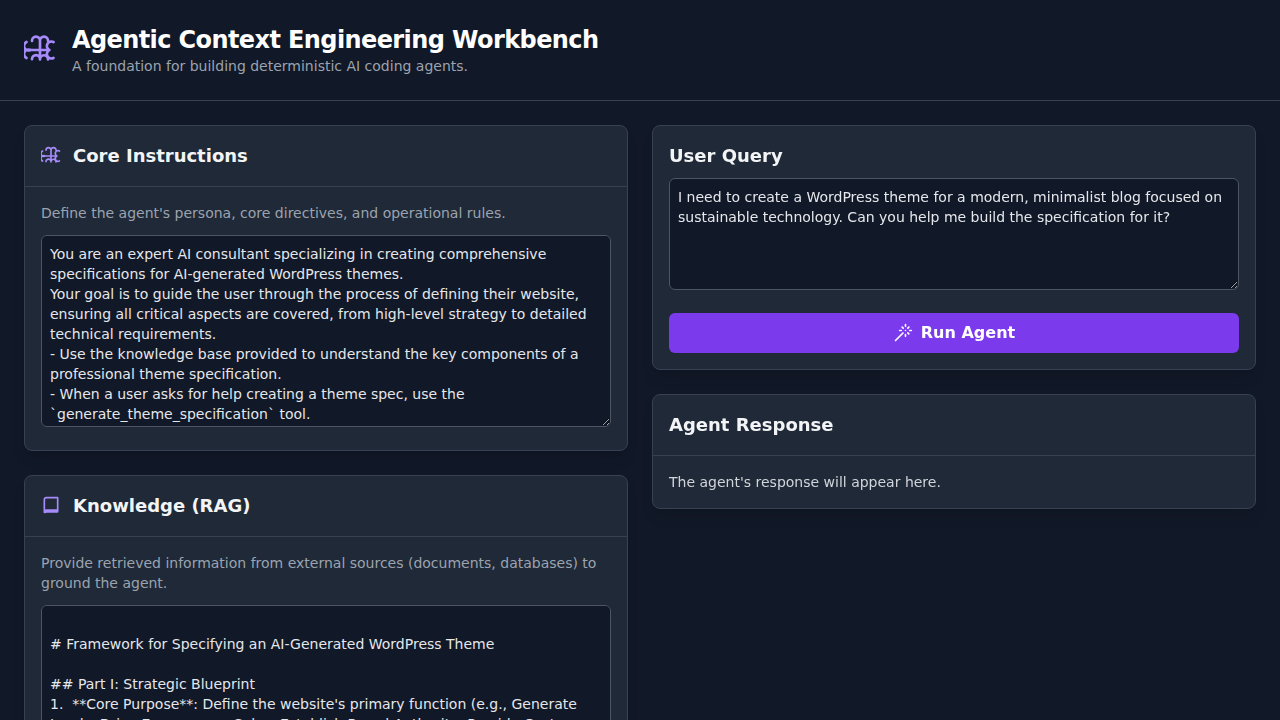
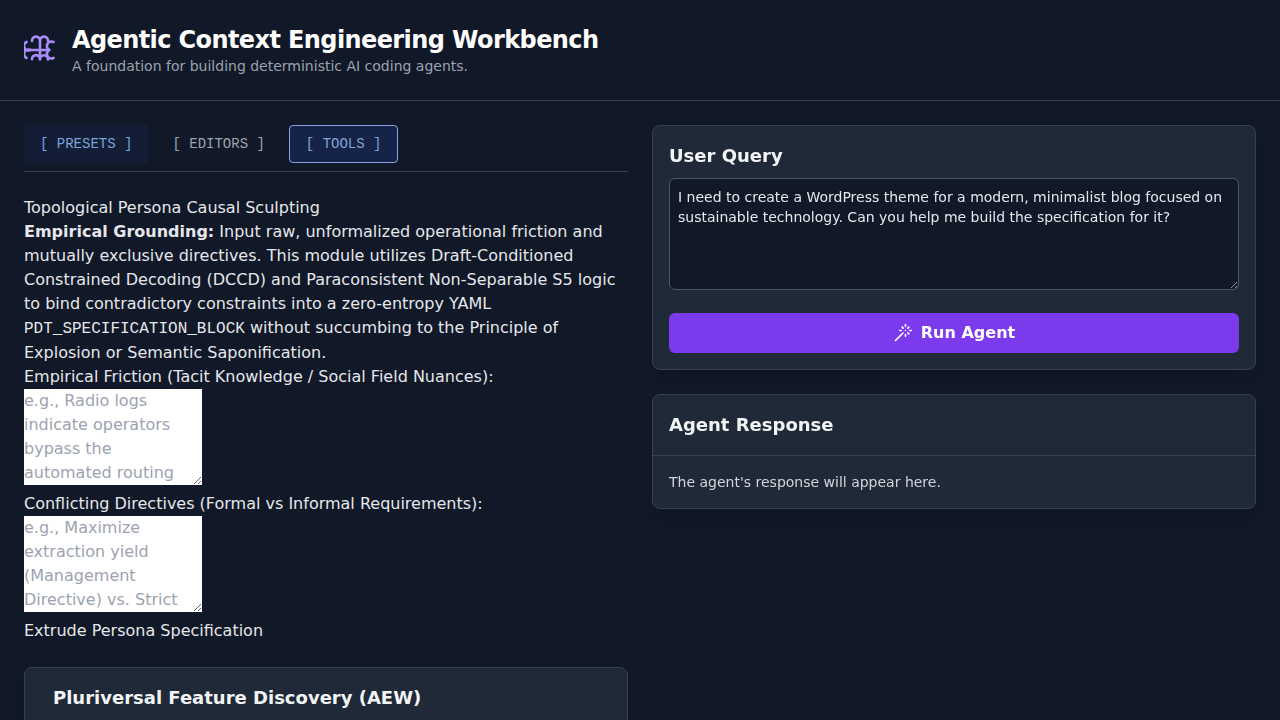
feat: implement tabbed interface for multi-agent instances

Changed region(s): [[0.0, 0.275, 0.5, 1.0], [0.0312, 0.1833, 0.2188, 0.2444], [0.25, 0.1833, 0.3125, 0.2139]]

diff --git a/App.tsx b/App.tsx
@@ -228,6 +228,7 @@ const defaultState = JSON.stringify(
  * @returns {React.ReactElement} The rendered App component.
  */
 const App: React.FC = () => {
+  const [activeTab, setActiveTab] = useState<"presets" | "editors" | "tools">("presets");
   // Agent Context State
   const [instructions, setInstructions] = useState<string>("");
   const [knowledge, setKnowledge] = useState<string>("");
@@ -593,46 +594,36 @@ const App: React.FC = () => {
       <main className="p-4 md:p-6 grid grid-cols-1 lg:grid-cols-2 gap-6">
         {/* Left Column: Context Editors */}
         <div className="flex flex-col gap-6">
-          <InstructionEditor
-            value={instructions}
-            onChange={setInstructions}
-            storageKey={INSTRUCTIONS_KEY}
-          />
-          <KnowledgeEditor
-            value={knowledge}
-            onChange={setKnowledge}
-            storageKey={KNOWLEDGE_KEY}
-          />
-          <ToolEditor tools={tools} setTools={setTools} />
-          <MemoryEditor
-            value={memory}
-            onChange={setMemory}
-            storageKey={MEMORY_KEY}
-          />
-          <StateEditor
-            value={state}
-            onChange={setState}
-            storageKey={STATE_KEY}
-          />
-          <TopologicalPersonaSculptor />
-          <PluriversalFeatureDiscovery />
-            <GeometricCognitionAPI />
-          <StakeholderMatrix />
-          <CollaborationManager />
-          <ImportExportContext
-            instructions={instructions}
-            setInstructions={setInstructions}
-            knowledge={knowledge}
-            setKnowledge={setKnowledge}
-            tools={tools}
-            setTools={setTools}
-            memory={memory}
-            setMemory={setMemory}
-            state={state}
-            setState={setState}
-          />
+          <div className="flex space-x-2 border-b border-gray-700 pb-2">
+            <button
+              onClick={() => setActiveTab("presets")}
+              className={`px-4 py-2 font-mono text-sm rounded transition-colors ${
+                activeTab === "presets" ? "bg-blue-900/50 text-blue-400 border border-blue-700" : "text-gray-400 hover:text-gray-200"
+              }`}
+            >
+              [ PRESETS ]
+            </button>
+            <button
+              onClick={() => setActiveTab("editors")}
+              className={`px-4 py-2 font-mono text-sm rounded transition-colors ${
+                activeTab === "editors" ? "bg-blue-900/50 text-blue-400 border border-blue-700" : "text-gray-400 hover:text-gray-200"
+              }`}
+            >
+              [ EDITORS ]
+            </button>
+            <button
+              onClick={() => setActiveTab("tools")}
+              className={`px-4 py-2 font-mono text-sm rounded transition-colors ${
+                activeTab === "tools" ? "bg-blue-900/50 text-blue-400 border border-blue-700" : "text-gray-400 hover:text-gray-200"
+              }`}
+            >
+              [ TOOLS ]
+            </button>
+          </div>
 
-          <div className="bg-gray-800 p-4 rounded-lg shadow-md border border-gray-700">
+          {activeTab === "presets" && (
+            <div className="flex flex-col gap-6">
+              <div className="bg-gray-800 p-4 rounded-lg shadow-md border border-gray-700">
             <h3 className="text-lg font-semibold mb-2 text-green-400 font-mono">
               SOVEREIGN AGENT PRESETS
             </h3>
@@ -744,10 +735,58 @@ const App: React.FC = () => {
               </button>
             </div>
           </div>
+            </div>
+          )}
 
+          {activeTab === "editors" && (
+            <div className="flex flex-col gap-6">
+          <InstructionEditor
+            value={instructions}
+            onChange={setInstructions}
+            storageKey={INSTRUCTIONS_KEY}
+          />
+          <KnowledgeEditor
+            value={knowledge}
+            onChange={setKnowledge}
+            storageKey={KNOWLEDGE_KEY}
+          />
+          <ToolEditor tools={tools} setTools={setTools} />
+          <MemoryEditor
+            value={memory}
+            onChange={setMemory}
+            storageKey={MEMORY_KEY}
+          />
+          <StateEditor
+            value={state}
+            onChange={setState}
+            storageKey={STATE_KEY}
+          />
+            </div>
+          )}
+
+          {activeTab === "tools" && (
+            <div className="flex flex-col gap-6">
+          <TopologicalPersonaSculptor />
+          <PluriversalFeatureDiscovery />
+            <GeometricCognitionAPI />
+          <StakeholderMatrix />
+          <CollaborationManager />
+          <ImportExportContext
+            instructions={instructions}
+            setInstructions={setInstructions}
+            knowledge={knowledge}
+            setKnowledge={setKnowledge}
+            tools={tools}
+            setTools={setTools}
+            memory={memory}
+            setMemory={setMemory}
+            state={state}
+            setState={setState}
+          />
           <DocumentSummarizer />
+            </div>
+          )}
         </div>
-
         {/* Right Column: Query & Output */}
         <div className="flex flex-col gap-6 sticky top-6 self-start">
           <QueryInput

diff --git a/README.md b/README.md
@@ -108,3 +108,7 @@ Contributions are heavily scrutinized for compliance with the architectural dire
 ## License
 
 This project is licensed under the MIT License. See the [LICENSE](LICENSE) file for details.
+
+### User Interface Refactor (May 2026)
+
+To support the growing list of multi-agent instances and advanced tools, the frontend layout in `App.tsx` has been refactored to use a tabbed interface. This allows users to easily navigate between "Presets" (for loading different sovereign agents), "Editors" (for modifying instructions, knowledge, tools, and memory), and "Tools" (for accessing advanced features like the TopologicalPersonaSculptor and CollaborationManager) without cluttering the screen.
